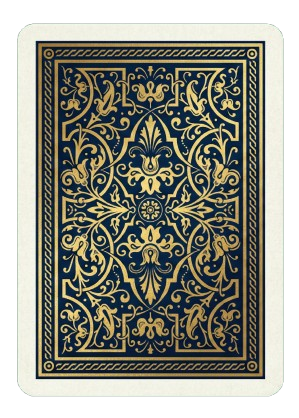
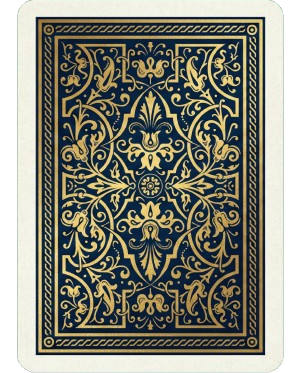
feat: new card back and responsibility fixes

diff --git a/public/style.css b/public/style.css
@@ -1928,35 +1928,9 @@ body {
     color: #ffffff !important;
 }
 
+/* Dark skin używa tego samego obrazka card-back.png */
 .card-skin-dark .card-back {
-    background: linear-gradient(135deg, #1a1a1a 0%, #2d2d2d 50%, #1a1a1a 100%);
-}
-
-.card-skin-dark .card-back::before {
-    background: linear-gradient(135deg, #1a1a1a 0%, #333 50%, #1a1a1a 100%);
-    border-color: rgba(255, 255, 255, 0.3);
-}
-
-.card-skin-dark .card-back::after {
-    border-color: rgba(255, 255, 255, 0.2);
-    background: 
-        linear-gradient(45deg, transparent 48%, rgba(255, 255, 255, 0.15) 49%, rgba(255, 255, 255, 0.15) 51%, transparent 52%),
-        linear-gradient(-45deg, transparent 48%, rgba(255, 255, 255, 0.15) 49%, rgba(255, 255, 255, 0.15) 51%, transparent 52%),
-        repeating-linear-gradient(
-            45deg,
-            transparent,
-            transparent 4px,
-            rgba(255, 255, 255, 0.04) 4px,
-            rgba(255, 255, 255, 0.04) 5px
-        ),
-        repeating-linear-gradient(
-            -45deg,
-            transparent,
-            transparent 4px,
-            rgba(255, 255, 255, 0.04) 4px,
-            rgba(255, 255, 255, 0.04) 5px
-        ),
-        radial-gradient(ellipse at center, #333 0%, #1a1a1a 70%);
+    background: url('card-back.png') center/cover no-repeat;
 }
 
 .card-skin-dark .card-placeholder {
@@ -2027,13 +2001,14 @@ body {
 }
 
 .card-back {
-   /* background: linear-gradient(135deg, #8B0000 0%, #B22222 50%, #8B0000 100%); */
     position: relative;
     overflow: hidden;
     background: url('card-back.png') center/cover no-repeat;
+    border: 1px solid rgba(255, 215, 0, 0.4);
 }
 
-/* Zewnętrzna ramka */
+/* Pseudoelementy wyłączone - używamy obrazka card-back.png */
+/*
 .card-back::before {
     content: '';
     position: absolute;
@@ -2043,7 +2018,6 @@ body {
     background: linear-gradient(135deg, #8B0000 0%, #A52A2A 50%, #8B0000 100%);
 }
 
-/* Wewnętrzny ornament */
 .card-back::after {
     content: '';
     position: absolute;
@@ -2051,10 +2025,8 @@ body {
     border: 1px solid rgba(255, 215, 0, 0.4);
     border-radius: 4px;
     background: 
-        /* Centralny romb */
         linear-gradient(45deg, transparent 48%, rgba(255, 215, 0, 0.3) 49%, rgba(255, 215, 0, 0.3) 51%, transparent 52%),
         linear-gradient(-45deg, transparent 48%, rgba(255, 215, 0, 0.3) 49%, rgba(255, 215, 0, 0.3) 51%, transparent 52%),
-        /* Wzór kratki */
         repeating-linear-gradient(
             45deg,
             transparent,
@@ -2069,9 +2041,9 @@ body {
             rgba(255, 215, 0, 0.08) 4px,
             rgba(255, 215, 0, 0.08) 5px
         ),
-        /* Gradient tła */
         radial-gradient(ellipse at center, #A52A2A 0%, #8B0000 70%);
 }
+*/
 
 /* Centralny symbol */
 .card-back .card-back-symbol {
@@ -2900,37 +2872,52 @@ body {
         grid-template-columns: 1fr;
     }
     
+    /* === UKRYJ PANELE BOMB POT I STRADDLE NA MOBILE === */
+    .bomb-pot-panel,
+    .straddle-panel {
+        display: none !important;
+    }
+    
+    /* === WYCENTRUJ KOD GRY NA MOBILE === */
+    .game-code-display {
+        left: 50%;
+        right: auto;
+        transform: translateX(-50%);
+    }
+    
     .poker-table {
-        height: 300px;
-        border-radius: 150px;
-        border-width: 10px;
+        height: 320px;
+        border-radius: 160px;
+        border-width: 12px;
     }
     
     .player-seat {
-        width: 80px;
+        width: 90px;
     }
     
     .player-box {
-        padding: 0.3rem;
+        padding: 0.4rem;
+        min-width: 85px;
     }
     
     .player-name {
-        font-size: 0.7rem;
+        font-size: 0.75rem;
     }
     
     .player-chips {
-        font-size: 0.65rem;
+        font-size: 0.7rem;
     }
     
     .player-cards .card {
-        width: 20px;
-        height: 28px;
-        font-size: 0.4rem;
+        width: 22px;
+        height: 30px;
+        font-size: 0.35rem;
     }
     
     .community-cards .card {
-        width: 40px;
-        height: 56px;
+        width: 44px;
+        height: 62px;
+        font-size: 0.65rem;
     }
     
     .player-panel {
@@ -2993,9 +2980,11 @@ body {
         font-size: 2rem;
     }
     
+    /* === POWIĘKSZONY STÓŁ NA MAŁYM MOBILE === */
     .poker-table {
-        height: 220px;
-        border-radius: 110px;
+        height: 260px;
+        border-radius: 130px;
+        border-width: 10px;
     }
 
     /* Zmniejsz odstęp stołu na małych ekranach */
@@ -3032,9 +3021,9 @@ body {
         font-size: 1rem;
     }
     
-    /* Mobile 480px - player seats jeszcze mniejsze */
+    /* === POWIĘKSZONE PLAYER SEATS NA 480px === */
     .player-seat {
-        width: 70px;
+        width: 80px;
     }
     
     .player-seat[data-seat="0"] { top: -18%; left: 50%; }
@@ -3047,33 +3036,36 @@ body {
     .player-seat[data-seat="7"] { top: 0%; left: 8%; }
     
     .player-box {
-        padding: 0.25rem;
+        padding: 0.35rem;
         border-radius: 10px;
+        min-width: 75px;
     }
     
     .player-name {
-        font-size: 0.6rem;
+        font-size: 0.65rem;
     }
     
     .player-chips {
-        font-size: 0.55rem;
+        font-size: 0.6rem;
     }
     
+    /* === ZMNIEJSZONE SYMBOLE W KARTACH === */
     .player-cards .card {
-        width: 16px;
-        height: 22px;
-        font-size: 0.35rem;
+        width: 18px;
+        height: 25px;
+        font-size: 0.3rem;
     }
     
     .community-cards .card {
-        width: 32px;
-        height: 45px;
-        font-size: 0.7rem;
+        width: 36px;
+        height: 50px;
+        font-size: 0.55rem;
     }
     
     .your-cards .card {
-        width: 45px;
-        height: 63px;
+        width: 48px;
+        height: 67px;
+        font-size: 0.85rem;
     }
     
     /* Panel akcji na mobile */
@@ -4880,17 +4872,24 @@ body {
         padding: 0;
     }
     
-    /* Game code - kompaktowy, nie rozciąga się */
+    /* === UKRYJ PANELE NA MOBILE PORTRAIT === */
+    .bomb-pot-panel,
+    .straddle-panel {
+        display: none !important;
+    }
+    
+    /* Game code - WYCENTROWANY na górze */
     .game-code-display {
         position: fixed;
         top: 5px;
-        left: 5px;
-        padding: 4px 8px;
+        left: 50%;
+        right: auto;
+        transform: translateX(-50%);
+        padding: 4px 12px;
         font-size: 0.65rem;
         z-index: 100;
         width: auto;
         max-width: fit-content;
-        right: auto;
     }
     
     .game-code-label {
@@ -4898,7 +4897,7 @@ body {
     }
     
     .game-code-value {
-        font-size: 0.7rem;
+        font-size: 0.75rem;
         letter-spacing: 1px;
     }
     
